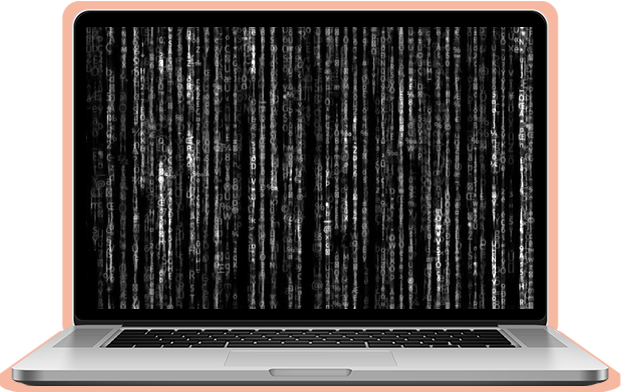
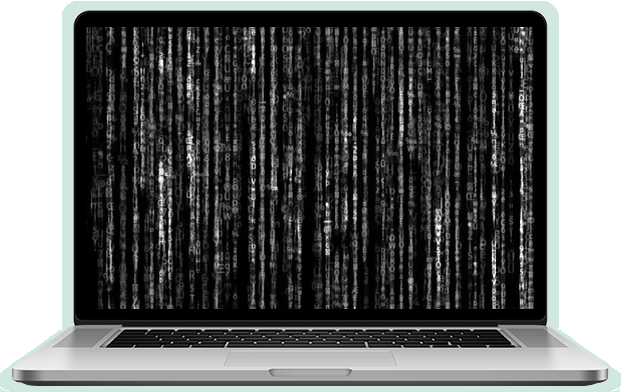
New design

diff --git a/styles/style.css b/styles/style.css
@@ -147,7 +147,7 @@ footer .footer-tile p:last-child, footer a, .link-toproject p {
 
 body {
   width: 100%;
-  background-image: radial-gradient(#F6B8A0 7%, #FBF7F4 7%);
+  background-image: radial-gradient(#D0E8E0 7%, #FBF7F4 7%);
   background-attachment: fixed;
   background-position: 0 0;
   background-size: 20px 20px;
@@ -156,7 +156,7 @@ body {
 @media (max-width: 550px) {
   body {
     background-size: 15px 15px;
-    background-image: radial-gradient(#F6B8A0 10%, #FBF7F4 10%);
+    background-image: radial-gradient(#D0E8E0 10%, #FBF7F4 10%);
   }
 }
 
@@ -225,7 +225,7 @@ header {
   cursor: pointer;
   -webkit-transition: all 0.5s ease-in-out;
   transition: all 0.5s ease-in-out;
-  text-shadow: 3px 3px 0px #F6B8A0;
+  text-shadow: 3px 3px 0px #D0E8E0;
 }
 
 @media (max-width: 550px) {
@@ -305,7 +305,7 @@ ul.menu a::before {
   left: 0;
   right: 0;
   bottom: 0;
-  background-color: #F6B8A0;
+  background-color: #D0E8E0;
   -webkit-transform: scaleX(0);
           transform: scaleX(0);
   -webkit-transform-origin: 0 50%;
@@ -328,7 +328,7 @@ ul.menu li:first-child a {
 }
 
 ul.menu li.current a {
-  text-shadow: 3px 3px 0px #F6B8A0;
+  text-shadow: 3px 3px 0px #D0E8E0;
 }
 
 /* Landing  */
@@ -410,7 +410,7 @@ footer::before {
   width: 100%;
   display: block;
   z-index: 2;
-  background-color: #F6B8A0;
+  background-color: #D0E8E0;
   position: relative;
   top: -20px;
 }
@@ -625,7 +625,7 @@ section.landing .email {
 
 .welcome-box {
   border: 1px solid #0F6565;
-  outline: solid 10px #F6B8A0;
+  outline: solid 10px #D0E8E0;
   outline-offset: 25px;
   padding: 50px;
   padding-top: 60px;
@@ -648,7 +648,7 @@ section.landing .email {
 
 @media (max-width: 550px) {
   .welcome-box {
-    outline: solid 5px #F6B8A0;
+    outline: solid 5px #D0E8E0;
     outline-offset: 10px;
     padding: 10px;
     padding-top: 20px;
@@ -928,7 +928,6 @@ section.projects {
 }
 
 .project-image {
-  background-image: url("../assets/images/2/1.png");
   background-position: center;
   background-size: contain;
   background-repeat: no-repeat;
@@ -943,6 +942,22 @@ section.projects {
     width: 90vw;
     height: 300px;
   }
+}
+
+.project1 .project-image {
+  background-image: url("../assets/images/1/1.png");
+}
+
+.project2 .project-image {
+  background-image: url("../assets/images/2/1.gif");
+}
+
+.project3 .project-image {
+  background-image: url("../assets/images/3/1.png");
+}
+
+.project4 .project-image {
+  background-image: url("../assets/images/4/1.png");
 }
 
 .arrow-wrapper .iconify {
@@ -973,7 +988,7 @@ section.projects {
 }
 
 .arrow:hover {
-  background-color: #F6B8A0;
+  background-color: #D0E8E0;
   -webkit-transition: 0.5s;
   transition: 0.5s;
 }
@@ -1028,7 +1043,7 @@ section.projects {
 }
 
 .slide-active {
-  background-color: #F6B8A0;
+  background-color: #D0E8E0;
 }
 
 /* Project- text */
@@ -1074,7 +1089,7 @@ section.projects {
 
 .txt-container h3 {
   margin-bottom: 10px;
-  text-shadow: 3px 3px 0px #F6B8A0;
+  text-shadow: 3px 3px 0px #D0E8E0;
 }
 
 @media (max-width: 1000px) {
@@ -1110,7 +1125,7 @@ p.project-description {
 
 .role {
   color: #0F6565;
-  border: 2px solid #F6B8A0;
+  border: 2px solid #D0E8E0;
   margin-bottom: 10px;
   padding: 0px 15px;
   height: 35px;
@@ -1171,7 +1186,7 @@ p.project-description {
   left: 0;
   right: 0;
   bottom: 0;
-  background-color: #F6B8A0;
+  background-color: #D0E8E0;
   -webkit-transform: scaleX(0);
           transform: scaleX(0);
   -webkit-transform-origin: 0 50%;
@@ -1395,7 +1410,7 @@ section.projects-others .project-image {
   font: 400 30px "Caveat", cursive;
   font-size: 40px;
   margin-bottom: 30px;
-  text-shadow: 3px 3px 0px #F6B8A0;
+  text-shadow: 3px 3px 0px #D0E8E0;
 }
 
 /* About - Career path */
@@ -1437,7 +1452,7 @@ section.education {
 
 .txt-container-path h3 {
   text-align: center;
-  text-shadow: 3px 3px 0px #F6B8A0;
+  text-shadow: 3px 3px 0px #D0E8E0;
   margin-bottom: 30px;
 }
 

diff --git a/styles/style.scss b/styles/style.scss
@@ -11,7 +11,7 @@
 //Colors
 $color-background: #FBF7F4;
 $color-main-dark: #0F6565;
-$color-secondary-light: #F6B8A0;
+$color-secondary-light: #D0E8E0;
 $color-secondary-dark: #0F6565;
 $color-tertiary: #B64F2E;
 
@@ -682,7 +682,6 @@ section.projects {
 //Images
 
 .project-image{
-  background-image: url("../assets/images/2/1.png");
   background-position:center;
   background-size: contain;
   background-repeat: no-repeat;
@@ -694,6 +693,22 @@ section.projects {
   width:90vw;
   height:300px;
   }
+}
+
+.project1 .project-image{
+  background-image: url("../assets/images/1/1.png");
+}
+
+.project2 .project-image{
+  background-image: url("../assets/images/2/1.gif");
+}
+
+.project3 .project-image{
+  background-image: url("../assets/images/3/1.png");
+}
+
+.project4 .project-image{
+  background-image: url("../assets/images/4/1.png");
 }
 
 // Arrows
@@ -792,7 +807,7 @@ section.projects {
 
 .txt-container h3 {
   margin-bottom: 10px;
-  text-shadow: 3px 3px 0px #F6B8A0;
+  text-shadow: $text-shadow;
   @media (max-width: $media-query1) {
     margin: 0 auto;
     margin-bottom: 20px;

diff --git a/main.js b/main.js
@@ -133,6 +133,9 @@ projectGallery4.arrowPrevious.addEventListener("click", function () {
   sliderActive4Previous.classList.remove("slide-active");
   sliderActive4 = document.querySelector(`.project${projectGallery4.numberOfProject} .dot${projectGallery4.firstNumber}`);
   sliderActive4.classList.add("slide-active");
+
+
+  
 });
 }
 
@@ -210,7 +213,7 @@ projectGalleryOthers2.arrowPrevious.addEventListener("click", function () {
 
 //Photos
 
-const projectGalleryOthers3= new ImagesSlidesOthers(8,3);
+const projectGalleryOthers3= new ImagesSlidesOthers(9,3);
 
 projectGalleryOthers3.arrowNext.addEventListener("click", function () {
   if (projectGalleryOthers3.firstNumber === projectGalleryOthers3.numberOfSlides){

diff --git a/other.html b/other.html
@@ -62,6 +62,8 @@
                     </div>
                     <div class="dot dot8" aria-label="Show slide 8 of 11" aria-selected="true" role="button">
                     </div>
+                    <div class="dot dot9" aria-label="Show slide 9 of 11" aria-selected="true" role="button">
+                    </div>
                 </div>
             </div>
         </article>

diff --git a/about.html b/about.html
@@ -156,7 +156,7 @@
          </div>
       </div>
    </footer>
-   <script></script>
+   <script src="/main.js"></script>
 </body>
 
 </html>
